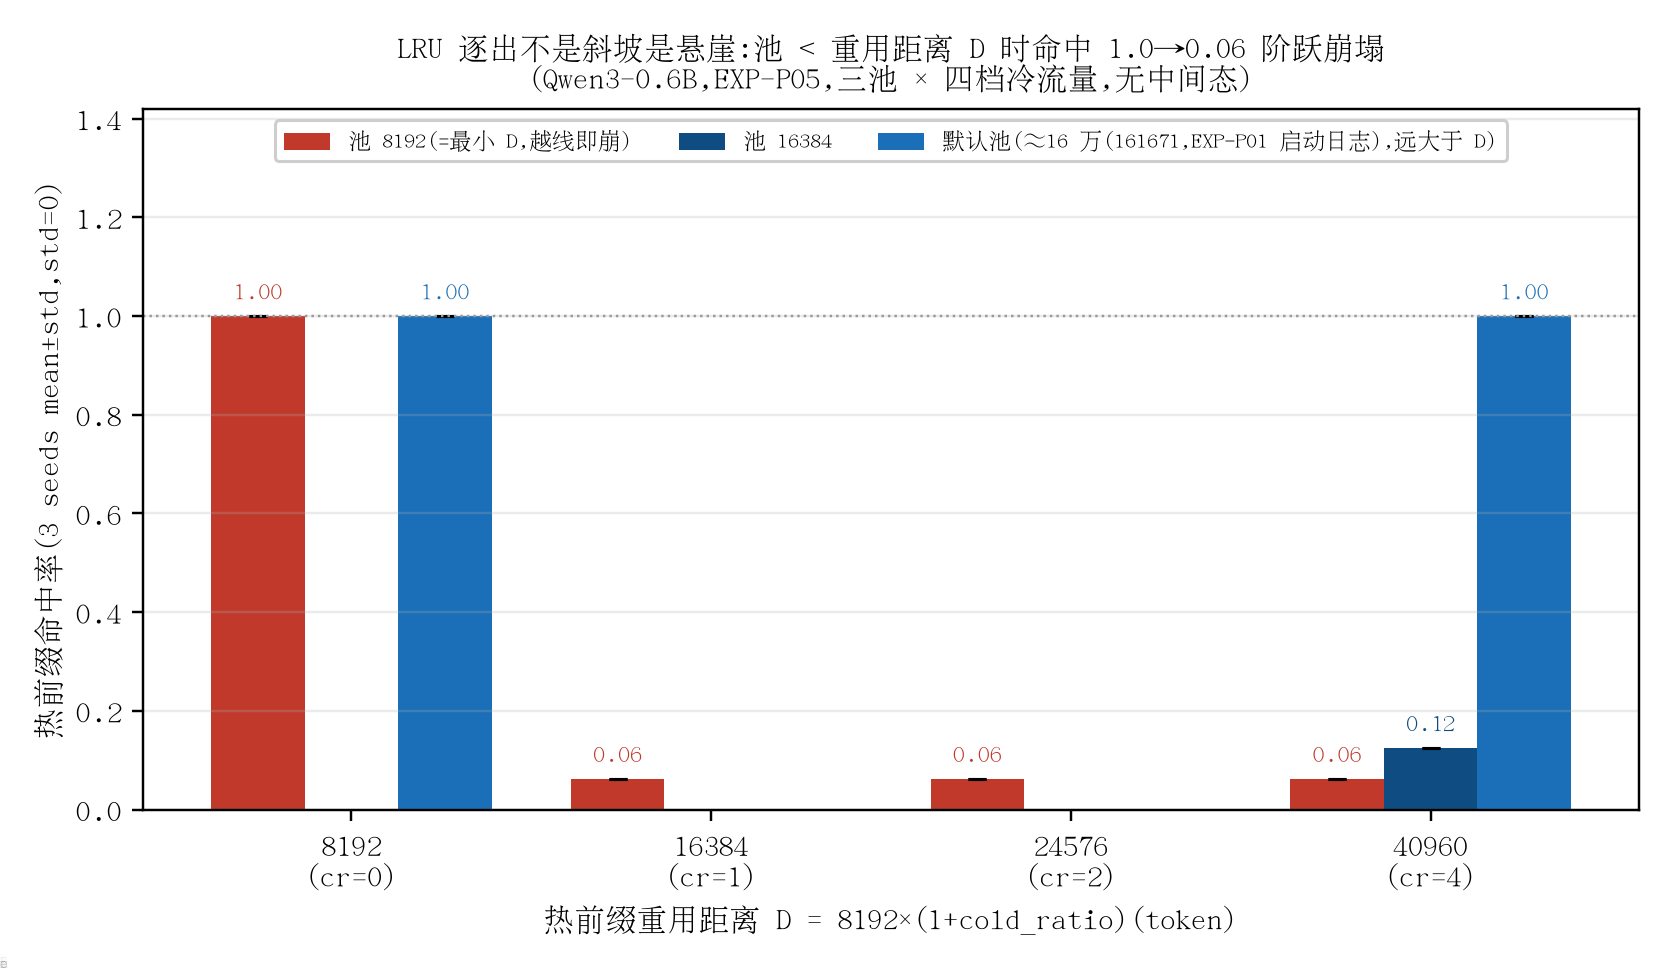
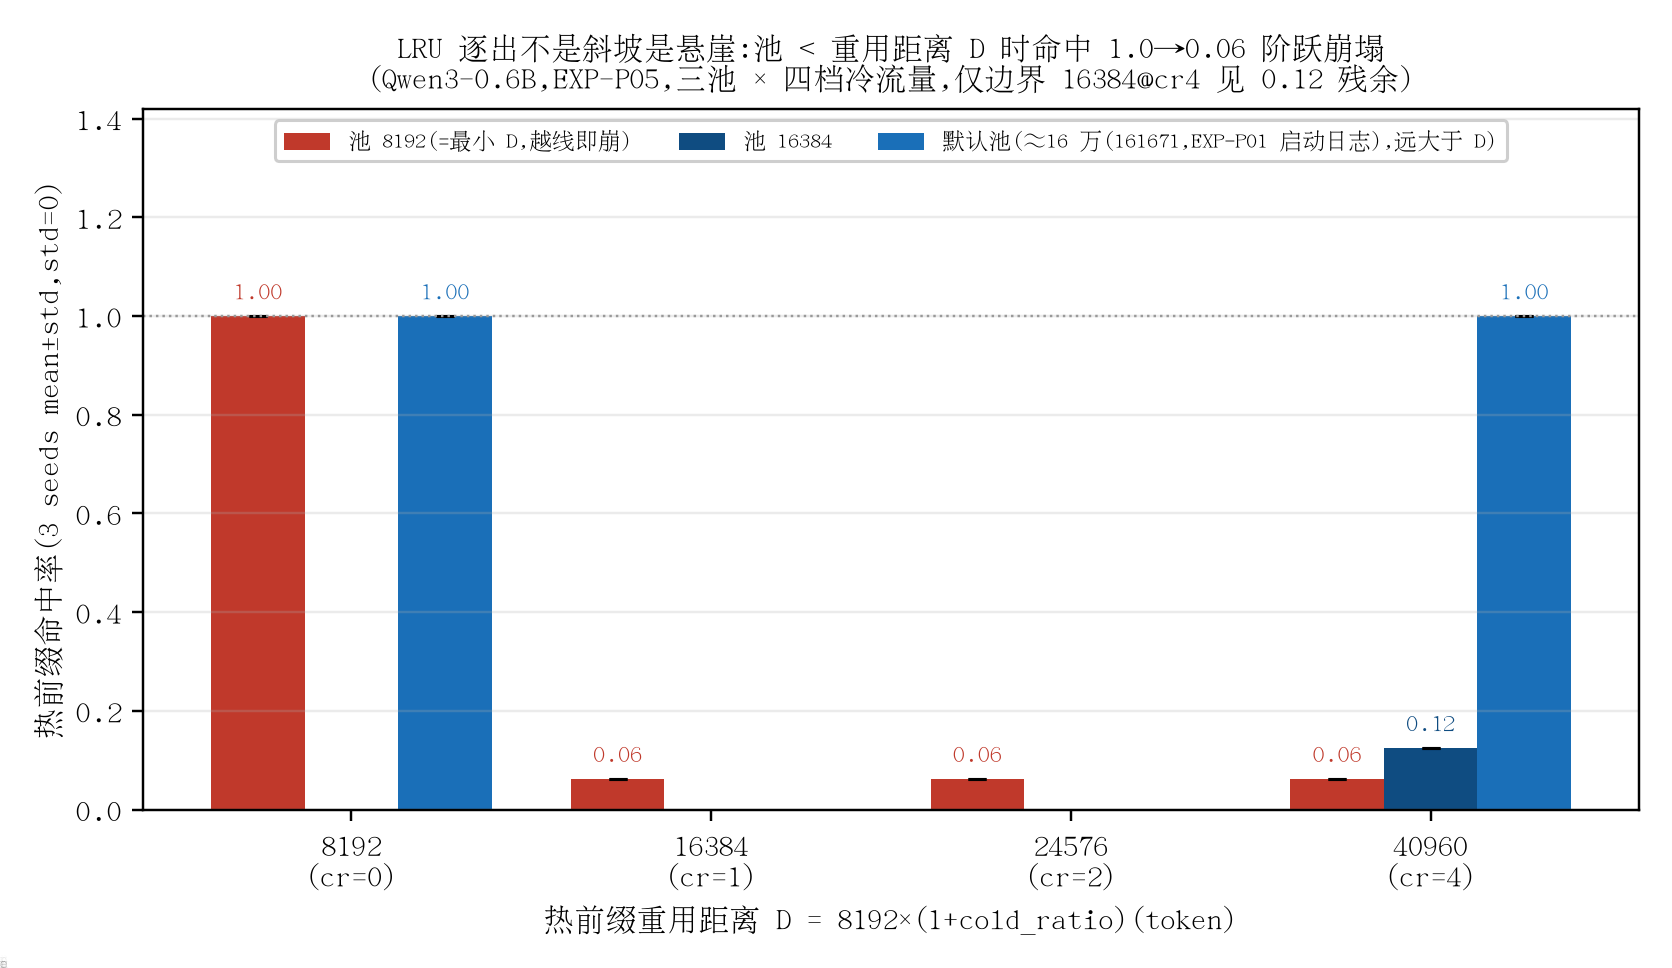
fig3 title: drop overclaimed 'no intermediate state' (0.12 boundary residue visible in chart)

Changed region(s): [[0.2177, 0.062, 0.7464, 0.093], [0.7775, 0.062, 0.8397, 0.093]]

diff --git a/scripts/plot_eviction_cliff.py b/scripts/plot_eviction_cliff.py
@@ -52,7 +52,7 @@ ax.set_ylabel("热前缀命中率(3 seeds mean±std,std=0)")
 ax.set_ylim(0, 1.42)   # 顶部留白:放图例与数值标注,不与 bar 重叠
 ax.axhline(1.0, color="#999", lw=0.8, ls=":")   # 满命中参考线:悬崖上沿
 ax.set_title("LRU 逐出不是斜坡是悬崖:池 < 重用距离 D 时命中 1.0→0.06 阶跃崩塌\n"
-             "(Qwen3-0.6B,EXP-P05,三池 × 四档冷流量,无中间态)", fontsize=10)
+             "(Qwen3-0.6B,EXP-P05,三池 × 四档冷流量,仅边界 16384@cr4 见 0.12 残余)", fontsize=10)
 ax.legend(fontsize=7.5, loc="upper center", ncol=3, framealpha=0.95)
 ax.grid(alpha=0.25, axis="y")
 fig.text(0.01, 0.01, f"src: {src.split('/')[-1]} · {prov[:90]} · RTX 4090", fontsize=5, color="#999")
